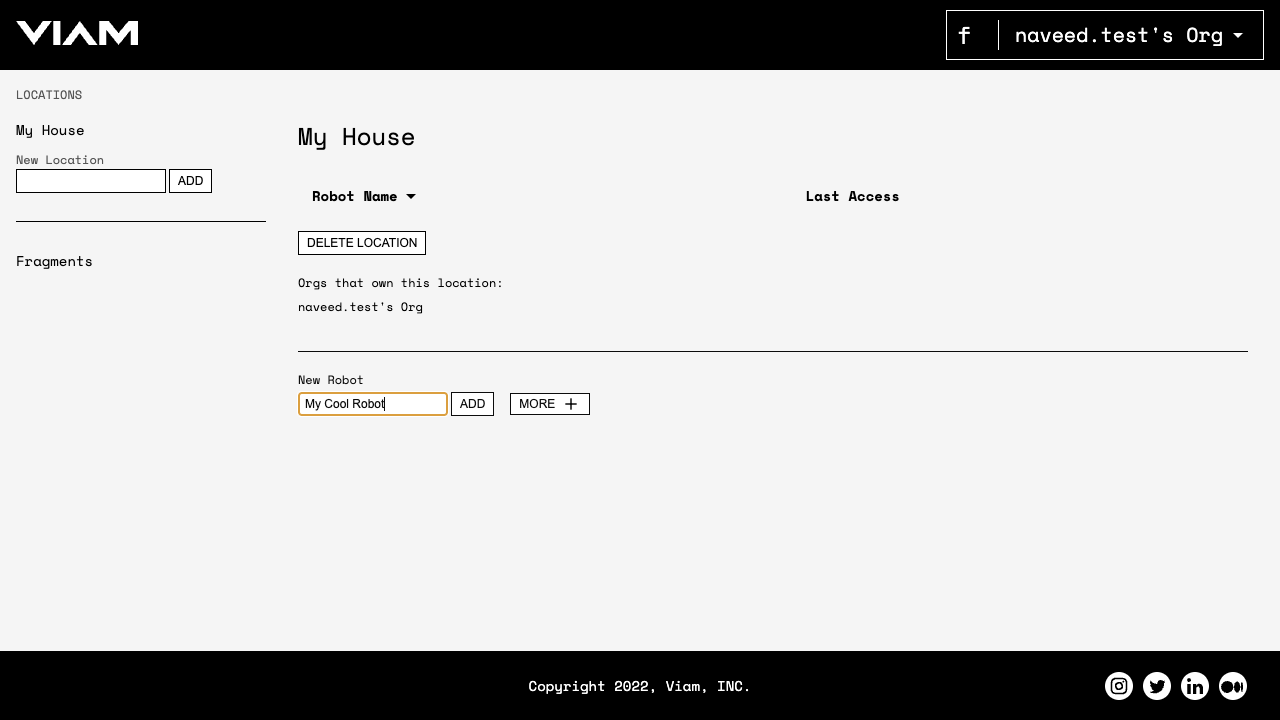
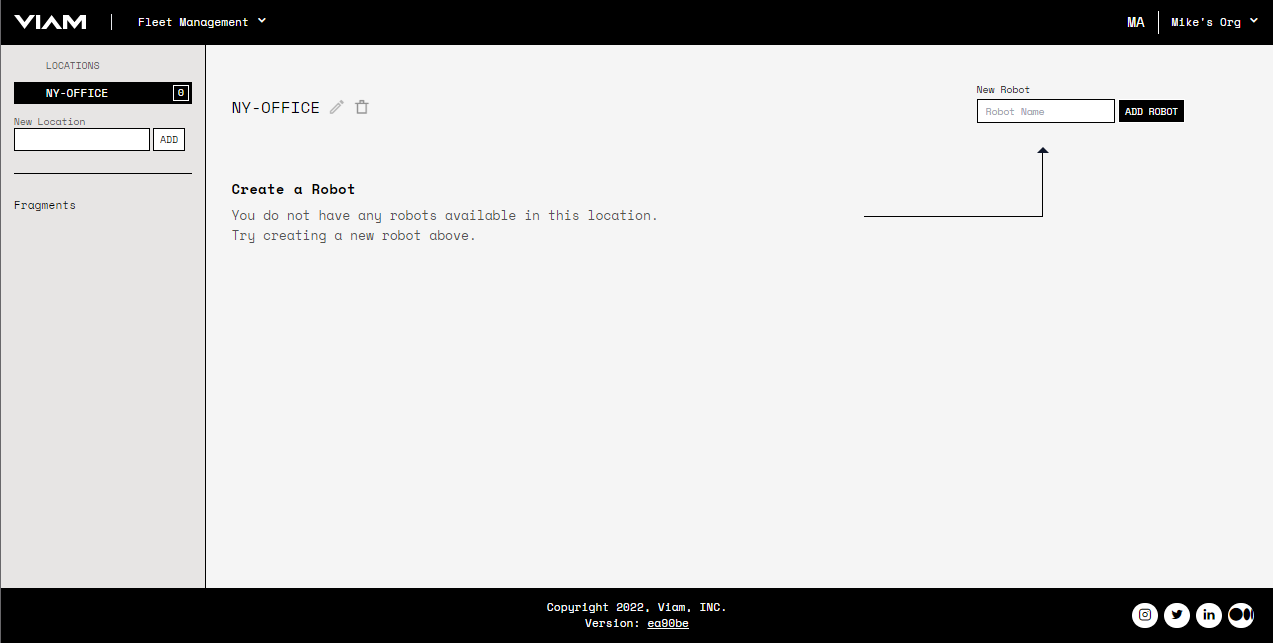
Updated image on installation.md
Updated image on installation.md
Fixed typo
Added supporting text for the updated image.

diff --git a/docs/getting-started/installation.md b/docs/getting-started/installation.md
@@ -179,11 +179,11 @@ This means either you can continue with your Viam email address or a personal em
 
 Once you are logged in, create a new location by filling out the form on the left and then clicking `New Location`.
 Location means where your robot is hosted in real life.
-This is useful if you have multiple robots in multiple locations and you would like to control them romotely via the cloud on our app.
+This is useful if you have multiple robots in multiple locations and you would like to control them remotely via the cloud on our app.
 
 ![add-location](../tutorials/img/add-location.png)
 
-Select your location and use the form on the right to create a new Robot:
+Select your location and use the form on the right to create a new Robot. If this is the frist robot in this location, the App displays a pointer to the New Robot field (upper RH-corner):
 
 ![add-robot](../tutorials/img/add-robot.png)
 
